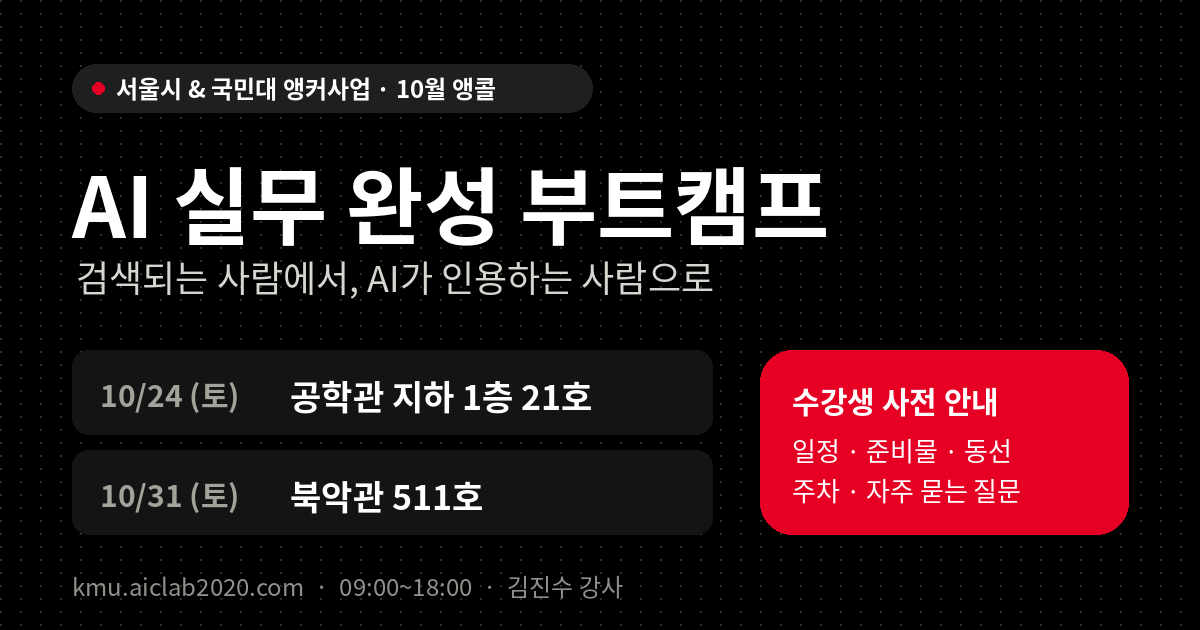
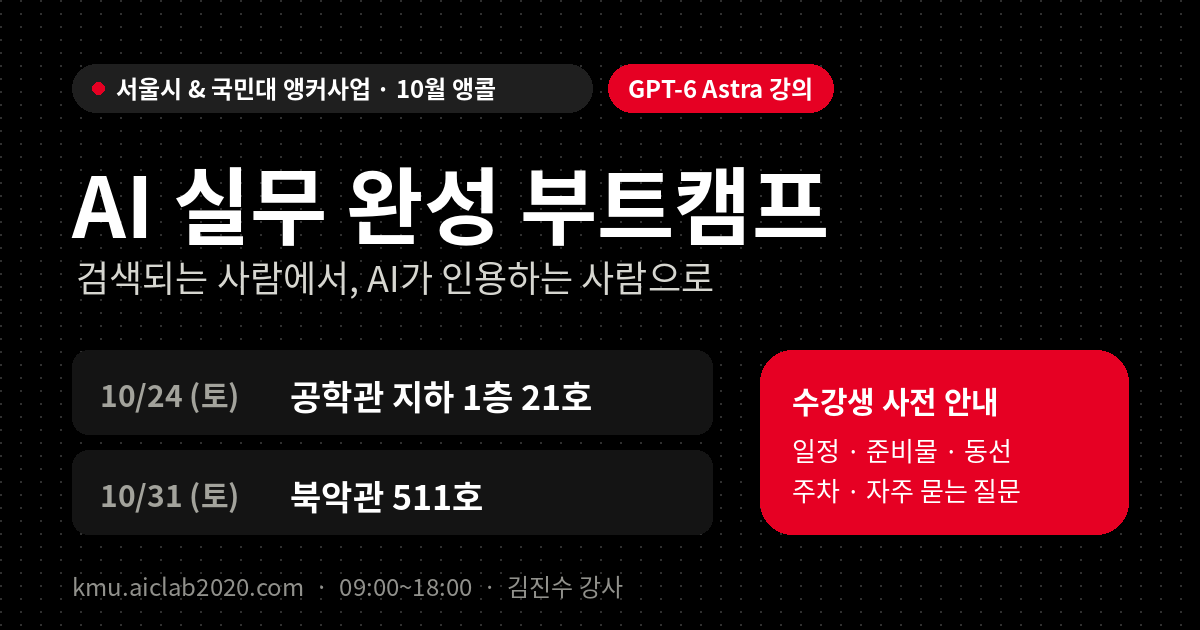
feat: GPT-6 Astra(아스트라) 검색 태그·구조화 데이터 추가
- title·description·keywords·OG/Twitter에 GPT-6 Astra, 아스트라, 챗GPT 비즈니스 반영
- 히어로에 강의 태그 칩, 커리큘럼에 실습 도구 문구, FAQ에 Astra 항목 추가
- Course JSON-LD, robots.txt, sitemap.xml, llms.txt 추가
- OG 이미지에 'GPT-6 Astra 강의' 배지

Claude-Session: https://claude.ai/code/session_01F85Z98ZBUN3VDCea7ghn78

Changed region(s): [[0.4933, 0.0905, 0.7092, 0.181]]

diff --git a/index.html b/index.html
@@ -5,25 +5,50 @@
 <meta name="viewport" content="width=device-width, initial-scale=1, viewport-fit=cover">
 <meta http-equiv="Content-Security-Policy" content="default-src 'self'; script-src 'self'; style-src 'self' https://fonts.googleapis.com; font-src https://fonts.gstatic.com; img-src 'self' data:; connect-src 'self'; object-src 'none'; base-uri 'self'; form-action 'none'">
 <meta name="referrer" content="strict-origin-when-cross-origin">
-<title>AI 실무 완성 부트캠프 10월 앵콜 · 수강생 안내</title>
-<meta name="description" content="국민대&서울앵커사업 AI 실무 완성 부트캠프 10월 앵콜(10/24·10/31 토) 수강생 사전 안내 — 날짜별 강의장, 일정·커리큘럼, 준비물, 캠퍼스 동선, 주차비, 자주 묻는 질문.">
+<title>GPT-6 Astra(아스트라) 강의 · AI 실무 완성 부트캠프 10월 앵콜 | 국민대</title>
+<meta name="description" content="국민대&amp;서울앵커사업 AI 실무 완성 부트캠프 10월 앵콜(10/24·10/31 토, 16시간) — GPT-6 Astra(아스트라)가 제공되는 챗GPT 비즈니스 유료 계정으로 실습하는 GEO 퍼스널 브랜딩 강의. 날짜별 강의장, 일정·커리큘럼, 준비물, 캠퍼스 동선, 주차, 자주 묻는 질문.">
+<meta name="keywords" content="GPT-6 Astra, GPT-6, Astra, 아스트라, GPT-6 아스트라, GPT-6 Astra 강의, 아스트라 강의, 챗GPT 비즈니스, ChatGPT Business, 국민대 AI 강의, 서울앵커사업, AI 실무 완성 부트캠프, GEO, 생성형 검색 최적화, 퍼스널 브랜딩, 김진수, AICLab">
+<meta name="author" content="김진수 (AICLab)">
+<meta name="robots" content="index, follow, max-image-preview:large">
 <link rel="canonical" href="https://kmu.aiclab2020.com/">
 <meta name="theme-color" content="#FBFBF9" media="(prefers-color-scheme: light)">
 <meta name="theme-color" content="#000000" media="(prefers-color-scheme: dark)">
 <meta property="og:type" content="website">
 <meta property="og:locale" content="ko_KR">
 <meta property="og:site_name" content="AICLab">
-<meta property="og:title" content="AI 실무 완성 부트캠프 10월 앵콜 · 수강생 안내">
-<meta property="og:description" content="10/24(토) 공학관 지하 1층 21호 · 10/31(토) 북악관 511호 | 일정·준비물·캠퍼스 동선·주차 안내">
+<meta property="og:title" content="GPT-6 Astra(아스트라) 강의 · AI 실무 완성 부트캠프 10월 앵콜">
+<meta property="og:description" content="국민대 10/24(토) 공학관 지하 1층 21호 · 10/31(토) 북악관 511호 | GPT-6 Astra 챗GPT 비즈니스 실습 · 일정·준비물·동선·주차 안내">
 <meta property="og:url" content="https://kmu.aiclab2020.com/">
 <meta property="og:image" content="https://kmu.aiclab2020.com/assets/img/og.png">
 <meta property="og:image:width" content="1200">
 <meta property="og:image:height" content="630">
-<meta property="og:image:alt" content="AI 실무 완성 부트캠프 10월 앵콜 수강생 안내 — 강의장과 일정">
+<meta property="og:image:alt" content="GPT-6 Astra 강의 — AI 실무 완성 부트캠프 10월 앵콜 수강생 안내, 강의장과 일정">
 <meta name="twitter:card" content="summary_large_image">
-<meta name="twitter:title" content="AI 실무 완성 부트캠프 10월 앵콜 · 수강생 안내">
-<meta name="twitter:description" content="10/24(토) 공학관 지하 1층 21호 · 10/31(토) 북악관 511호 | 일정·준비물·캠퍼스 동선·주차 안내">
+<meta name="twitter:title" content="GPT-6 Astra(아스트라) 강의 · AI 실무 완성 부트캠프 10월 앵콜">
+<meta name="twitter:description" content="국민대 10/24(토) 공학관 지하 1층 21호 · 10/31(토) 북악관 511호 | GPT-6 Astra 챗GPT 비즈니스 실습 · 일정·준비물·동선·주차 안내">
 <meta name="twitter:image" content="https://kmu.aiclab2020.com/assets/img/og.png">
+<script type="application/ld+json">
+{
+  "@context": "https://schema.org",
+  "@type": "Course",
+  "name": "AI실무완성부트캠프 앵콜: 검색되는 사람에서, AI가 인용하는 사람으로",
+  "alternateName": ["GPT-6 Astra 강의", "아스트라 강의", "국민대 AI 실무 완성 부트캠프 10월 앵콜"],
+  "description": "국민대&서울앵커사업 오픈 학습과정. GPT-6 Astra(아스트라)가 제공되는 챗GPT 비즈니스 유료 계정으로 자신의 경력을 AI가 인용하는 지식 자산으로 정리하고 GEO 글쓰기·홈페이지·검색 등록까지 실습하는 16시간 과정.",
+  "keywords": "GPT-6 Astra, GPT-6, Astra, 아스트라, 챗GPT 비즈니스, ChatGPT Business, GEO, 생성형 검색 최적화, 퍼스널 브랜딩, 국민대, 서울앵커사업",
+  "inLanguage": "ko",
+  "url": "https://kmu.aiclab2020.com/",
+  "provider": {"@type": "Organization", "name": "국민대학교 서울앵커사업", "sameAs": "https://www.kookmin.ac.kr/"},
+  "hasCourseInstance": [
+    {"@type": "CourseInstance", "name": "1일차", "courseMode": "Onsite", "startDate": "2026-10-24T09:00:00+09:00", "endDate": "2026-10-24T18:00:00+09:00",
+     "location": {"@type": "Place", "name": "국민대학교 공학관 지하 1층 21호", "address": {"@type": "PostalAddress", "streetAddress": "정릉로 77", "addressLocality": "성북구", "addressRegion": "서울특별시", "addressCountry": "KR"}},
+     "instructor": {"@type": "Person", "name": "김진수", "jobTitle": "AICLab 소장", "url": "https://www.aiclab.kr/"}},
+    {"@type": "CourseInstance", "name": "2일차", "courseMode": "Onsite", "startDate": "2026-10-31T09:00:00+09:00", "endDate": "2026-10-31T18:00:00+09:00",
+     "location": {"@type": "Place", "name": "국민대학교 북악관 511호", "address": {"@type": "PostalAddress", "streetAddress": "정릉로 77", "addressLocality": "성북구", "addressRegion": "서울특별시", "addressCountry": "KR"}},
+     "instructor": {"@type": "Person", "name": "김진수", "jobTitle": "AICLab 소장", "url": "https://www.aiclab.kr/"}}
+  ],
+  "offers": {"@type": "Offer", "price": "0", "priceCurrency": "KRW", "category": "Free"}
+}
+</script>
 <link rel="icon" href="assets/img/favicon.svg" type="image/svg+xml">
 <link rel="preconnect" href="https://fonts.googleapis.com">
 <link rel="preconnect" href="https://fonts.gstatic.com" crossorigin>
@@ -65,6 +90,7 @@
       <div class="eyebrow-row fade"><span class="eyebrow"><i aria-hidden="true"></i>서울시 &amp; 국민대 앵커사업 · 10월 앵콜 수강생 안내</span></div>
       <div class="bottom">
         <p class="desc fade d1">검색되는 사람에서, AI가 인용하는 사람으로</p>
+        <ul class="tags fade d1" aria-label="강의 태그"><li>#GPT-6 Astra 강의</li><li>#아스트라</li><li>#챗GPT 비즈니스</li><li>#GEO</li></ul>
         <p class="meta fade d1"><span class="nb">2026년 10월 24일(토) · 31일(토)</span> <span class="nb">09:00~18:00</span> <span class="nb">· 김진수 강사</span></p>
         <div class="actions fade d2">
           <a class="btn primary" href="https://www.kookmin.ac.kr/user/unIntr/campusGuide/bukakCampusGuide/index.do" target="_blank" rel="noopener noreferrer">국민대 캠퍼스 안내 바로가기</a>
@@ -95,6 +121,7 @@
 
 <section aria-labelledby="s-cur" id="curriculum">
   <h2 id="s-cur">일정 · 커리큘럼 <small>총 16시간</small></h2>
+  <p class="note">실습 도구: <b>챗GPT 비즈니스(단체용) 유료 계정 — GPT-6 Astra(아스트라) 제공 요금제</b> · 국민대 앵커사업단 지원</p>
   <div class="cur">
     <details class="cday" open><summary><h3>1일차 <span>10/24 (토) · 공학관 지하 1층 21호</span></h3></summary><ol><li><span class="tm">09:00~10:00</span><span class="ti">오리엔테이션: 검색되는 사람에서 AI가 인용하는 사람으로<em>산출물 · AI 가시성 기준선 기록</em></span></li><li><span class="tm">10:00~11:00</span><span class="ti">AI 도구 설정: 나의 AI 작업 환경 만들기<em>산출물 · 나의 AI 작업 환경</em></span></li><li><span class="tm">11:00~12:00</span><span class="ti">전문성 발굴·형식지화: 나의 지식 자산 만들기<em>산출물 · 전문분야 지도 + 대표 정의 문장 + 지식 자산 문서</em></span></li><li><span class="tm">12:00~13:00</span><span class="ti">GEO 글쓰기 엔진: 나만의 스킬 만들기<em>산출물 · 나의 GEO 글쓰기 스킬</em></span></li><li class="lunch"><span class="tm">13:00~14:00</span><span class="ti">점심</span></li><li><span class="tm">14:00~15:30</span><span class="ti">GEO 글쓰기 ①: 블로그<em>산출물 · GEO 블로그 글 1편</em></span></li><li><span class="tm">15:30~17:00</span><span class="ti">GEO 글쓰기 ②: 칼럼·보도자료<em>산출물 · GEO 칼럼 1편 + 보도자료 1건</em></span></li><li><span class="tm">17:00~18:00</span><span class="ti">1일차 결과물 정리 및 공유<em>산출물 · 1일차 결과물 아카이브</em></span></li></ol></details>
     <details class="cday" open><summary><h3>2일차 <span>10/31 (토) · 북악관 511호</span></h3></summary><ol><li><span class="tm">09:00~10:00</span><span class="ti">GEO 채널 전략과 성과 지표 설계<em>산출물 · 채널 구성표 + 측정표 틀</em></span></li><li><span class="tm">10:00~11:30</span><span class="ti">나의 웹페이지(홈페이지) GEO 최적화<em>산출물 · GEO 최적화 홈페이지(공개 URL)</em></span></li><li><span class="tm">11:30~13:00</span><span class="ti">링크드인 프로필 설정과 채널 연결<em>산출물 · 링크드인 프로필 + 게시 글</em></span></li><li class="lunch"><span class="tm">13:00~14:00</span><span class="ti">점심</span></li><li><span class="tm">14:00~15:30</span><span class="ti">검색되게 만들기: 검색엔진 등록과 색인<em>산출물 · 검색엔진 등록 완료 + 색인 요청</em></span></li><li><span class="tm">15:30~17:00</span><span class="ti">홈페이지로 모션그래픽 만들기<em>산출물 · 모션그래픽 영상 2종 + 유튜브 링크</em></span></li><li><span class="tm">17:00~18:00</span><span class="ti">성과측정·운영 루틴 및 발표<em>산출물 · 성과 측정표 + 30일 운영 캘린더</em></span></li></ol></details>
@@ -194,7 +221,7 @@
 <section aria-labelledby="s-faq">
   <h2 id="s-faq">자주 묻는 질문 <small>눌러서 펼치기</small></h2>
   <button type="button" class="toggle-all" data-toggle-all="#faq-list" aria-expanded="false">모두 펼치기</button>
-  <div class="faq" id="faq-list"><details class="hot" open><summary><span class="q"><span class="tag">중요</span>주차비는 얼마인가요?</span></summary><p>주차 지원이 없어 주차비는 본인 부담입니다. 국민대 교내 지하주차장(종합복지관 지하)은 <b>종일 5만원</b>(1시간 5천원, 3시간 1만 7천원, 5시간 2만 9천원)으로 부담이 큰 편입니다. 차량을 이용하신다면 국민대앞공영주차장(서울 성북구 정릉로6길 41, <b>종일 10,800원</b>, 1시간 1,800원)을 고려하세요. 일반 20대·전기차 10대로 이용자가 많은 편이니 필요하면 1~2일 전 010-9542-4456으로 문의하세요. 가능하면 대중교통 이용을 권장합니다.</p></details><details><summary>날짜마다 강의장이 다른가요?</summary><p>네. 10/24(토)는 공학관 지하 1층 21호, 10/31(토)는 북악관 511호입니다. 두 곳 모두 전산실습실입니다. 건물 위치는 위 강의장 안내 지도와 국민대 캠퍼스 안내에서 확인하세요.</p></details><details><summary>하루만 참석해도 되나요?</summary><p>1일차·2일차 연속 참석이 원칙입니다. 총 16시간 중 80% 이상(13시간 이상) 출석해야 수료되며, 출석이 80%에 미달하면 사업 운영 기준에 따라 향후 서울앵커사업 과정 선발에서 제외됩니다.</p></details><details><summary>출석은 어떻게 확인하나요?</summary><p>회차(4시간)별로 입실·퇴실 출석을 확인합니다(1일 4회). 늦게 오거나 일찍 나가면 출석 시간에 반영됩니다.</p></details><details><summary>신분증을 꼭 가져가야 하나요?</summary><p>네. 과정 참가 첫 날 국민대 앵커사업단 실무자가 신분증으로 생년과 거주지를 확인합니다. 첫날 결석하면 두 번째 날에 지참하세요. 신분증상 주소와 실제 거주지가 다르면 주민등록등본을 발급받아 오세요.</p></details><details><summary>노트북을 가져가야 하나요?</summary><p>강의실이 전산실습실로 준비되어 있습니다. 개인 노트북도 사용할 수 있으며, 가져오시면 충전기와 마우스를 함께 준비하세요.</p></details><details><summary>챗GPT 유료 계정은 어떻게 받나요?</summary><p>국민대 앵커사업단에서 챗GPT비즈니스(단체용) 유료 버전을 교육 기간 동안 무료로 지원합니다. 10/23(금) 국민대 담당자가 일괄 결제할 예정이며, 금요일에 못 하신 분은 당일 강의장에서 등록을 도와드립니다.</p></details><details><summary>미리 가입해 둘 사이트가 있나요?</summary><p>구글 계정을 준비하고, Claude(claude.ai)와 ChatGPT(chatgpt.com)에 미리 가입해 오세요. 구글 계정이 있으면 쉽게 가입할 수 있고 모두 무료입니다.</p></details><details><summary>무엇을 준비해 가면 좋을까요?</summary><p>만들고 싶은 주제(회사 프로그램 홍보, 업무 홍보자료, 퍼스널 브랜딩, 강의 홍보 등)를 정해 오시고, 상반신이 잘 나온 사진 파일을 준비해 오세요. 강의 시간에 실습에 사용합니다.</p></details><details><summary>교재가 있나요?</summary><p>별도 인쇄물 교재는 없습니다. 회차별 워크북과 참고 자료는 강의 패들렛으로 공유합니다.</p></details><details><summary>점심이나 주차 지원이 되나요?</summary><p>식사와 주차는 지원되지 않습니다. 교육 참가비는 무료입니다. 주차비는 위 '주차비는 얼마인가요?'를 참고하세요.</p></details><details><summary>과정 소개를 더 자세히 보고 싶어요.</summary><p>과정 세부 안내 페이지(kookmin-ai.aimay.chatgpt.site)에서 확인할 수 있습니다.</p></details><details><summary>그 밖의 문의는 어디로 하나요?</summary><p>김진수 강사(010-8921-9536)에게 문의하세요.</p></details></div>
+  <div class="faq" id="faq-list"><details class="hot" open><summary><span class="q"><span class="tag">중요</span>주차비는 얼마인가요?</span></summary><p>주차 지원이 없어 주차비는 본인 부담입니다. 국민대 교내 지하주차장(종합복지관 지하)은 <b>종일 5만원</b>(1시간 5천원, 3시간 1만 7천원, 5시간 2만 9천원)으로 부담이 큰 편입니다. 차량을 이용하신다면 국민대앞공영주차장(서울 성북구 정릉로6길 41, <b>종일 10,800원</b>, 1시간 1,800원)을 고려하세요. 일반 20대·전기차 10대로 이용자가 많은 편이니 필요하면 1~2일 전 010-9542-4456으로 문의하세요. 가능하면 대중교통 이용을 권장합니다.</p></details><details><summary>GPT-6 Astra(아스트라)로 실습하나요?</summary><p>네. 국민대 앵커사업단이 지원하는 챗GPT 비즈니스(단체용) 유료 계정으로 실습합니다. OpenAI는 GPT-6 Astra를 ChatGPT Plus·Pro·Business·Enterprise 사용자에게 제공한다고 발표했습니다. 강의 첫날 모델 선택 메뉴에서 GPT-6 Astra가 보이는지 함께 확인한 뒤 실습을 시작합니다.</p></details><details><summary>날짜마다 강의장이 다른가요?</summary><p>네. 10/24(토)는 공학관 지하 1층 21호, 10/31(토)는 북악관 511호입니다. 두 곳 모두 전산실습실입니다. 건물 위치는 위 강의장 안내 지도와 국민대 캠퍼스 안내에서 확인하세요.</p></details><details><summary>하루만 참석해도 되나요?</summary><p>1일차·2일차 연속 참석이 원칙입니다. 총 16시간 중 80% 이상(13시간 이상) 출석해야 수료되며, 출석이 80%에 미달하면 사업 운영 기준에 따라 향후 서울앵커사업 과정 선발에서 제외됩니다.</p></details><details><summary>출석은 어떻게 확인하나요?</summary><p>회차(4시간)별로 입실·퇴실 출석을 확인합니다(1일 4회). 늦게 오거나 일찍 나가면 출석 시간에 반영됩니다.</p></details><details><summary>신분증을 꼭 가져가야 하나요?</summary><p>네. 과정 참가 첫 날 국민대 앵커사업단 실무자가 신분증으로 생년과 거주지를 확인합니다. 첫날 결석하면 두 번째 날에 지참하세요. 신분증상 주소와 실제 거주지가 다르면 주민등록등본을 발급받아 오세요.</p></details><details><summary>노트북을 가져가야 하나요?</summary><p>강의실이 전산실습실로 준비되어 있습니다. 개인 노트북도 사용할 수 있으며, 가져오시면 충전기와 마우스를 함께 준비하세요.</p></details><details><summary>챗GPT 유료 계정은 어떻게 받나요?</summary><p>국민대 앵커사업단에서 챗GPT비즈니스(단체용) 유료 버전을 교육 기간 동안 무료로 지원합니다. 10/23(금) 국민대 담당자가 일괄 결제할 예정이며, 금요일에 못 하신 분은 당일 강의장에서 등록을 도와드립니다.</p></details><details><summary>미리 가입해 둘 사이트가 있나요?</summary><p>구글 계정을 준비하고, Claude(claude.ai)와 ChatGPT(chatgpt.com)에 미리 가입해 오세요. 구글 계정이 있으면 쉽게 가입할 수 있고 모두 무료입니다.</p></details><details><summary>무엇을 준비해 가면 좋을까요?</summary><p>만들고 싶은 주제(회사 프로그램 홍보, 업무 홍보자료, 퍼스널 브랜딩, 강의 홍보 등)를 정해 오시고, 상반신이 잘 나온 사진 파일을 준비해 오세요. 강의 시간에 실습에 사용합니다.</p></details><details><summary>교재가 있나요?</summary><p>별도 인쇄물 교재는 없습니다. 회차별 워크북과 참고 자료는 강의 패들렛으로 공유합니다.</p></details><details><summary>점심이나 주차 지원이 되나요?</summary><p>식사와 주차는 지원되지 않습니다. 교육 참가비는 무료입니다. 주차비는 위 '주차비는 얼마인가요?'를 참고하세요.</p></details><details><summary>과정 소개를 더 자세히 보고 싶어요.</summary><p>과정 세부 안내 페이지(kookmin-ai.aimay.chatgpt.site)에서 확인할 수 있습니다.</p></details><details><summary>그 밖의 문의는 어디로 하나요?</summary><p>김진수 강사(010-8921-9536)에게 문의하세요.</p></details></div>
 </section>
 
 <footer>

diff --git a/assets/css/style.css b/assets/css/style.css
@@ -95,6 +95,9 @@ body::before { content: ""; position: fixed; inset: 0 0 auto; height: env(safe-a
 .dot-hero .eyebrow i { width: 6px; height: 6px; border-radius: 9999px; background: var(--red); box-shadow: 0 0 10px var(--red); flex: none; }
 .dot-hero .bottom { position: absolute; inset: 0; display: flex; flex-direction: column; align-items: center; justify-content: flex-end; padding: 0 16px max(14vh, 96px); text-align: center; }
 .dot-hero .desc { margin: 0; max-width: 620px; font-size: clamp(16px, 2.6vw, 19px); line-height: 1.5; color: var(--ink); font-weight: 600; }
+.dot-hero .tags { list-style: none; margin: 10px 0 0; padding: 0; display: flex; flex-wrap: wrap; justify-content: center; gap: 6px; }
+.dot-hero .tags li { font-size: 12px; font-weight: 700; color: var(--ink); background: var(--chip); border-radius: 9999px; padding: 4px 10px; }
+.dot-hero .tags li:first-child { background: var(--red); color: #FFFFFF; }
 .dot-hero .meta { margin: 6px 0 0; font-size: 14px; color: var(--mute); }
 .dot-hero .actions { pointer-events: auto; margin-top: 20px; display: flex; flex-wrap: wrap; justify-content: center; gap: 8px; }
 .fade { transition: opacity 1s cubic-bezier(.2,.9,.25,1), transform 1s cubic-bezier(.2,.9,.25,1); opacity: 0; transform: translateY(10px); }

diff --git a/SECURITY-CHECK.md b/SECURITY-CHECK.md
@@ -16,7 +16,7 @@
 | 4 | 평문 전송 (CWE-319) | 높음 | 통과 | 모든 외부 링크 https, 페이지 전송은 Enforce HTTPS로 강제(16번) |
 | 5 | Open Redirect (CWE-601) | 높음 | 통과 | 리다이렉트 로직 없음 |
 | 6 | CSRF (CWE-352) | 높음 | 통과 | 폼·상태 변경 요청 없음, CSP `form-action 'none'` |
-| 7 | 보안 헤더 — CSP | 높음 | 통과 | meta CSP: `script-src 'self'`, 인라인 스크립트·핸들러·style 속성 0개 |
+| 7 | 보안 헤더 — CSP | 높음 | 통과 | meta CSP: `script-src 'self'`, 실행 스크립트는 외부 파일만. 인라인은 실행되지 않는 데이터 블록(JSON-LD) 1개뿐, 핸들러·style 속성 0개 |
 | 8 | 외부 링크 탭내빙(reverse tabnabbing) | 중간 | 통과 | `target="_blank"` 8개 모두 `rel="noopener noreferrer"` |
 | 9 | 디버그 코드 (CWE-489) | 중간 | 통과 | console.log·debugger 없음 |
 | 10 | 주석 내 민감정보 (CWE-615) | 중간 | 통과 | 주석은 구조 설명만 |
@@ -31,3 +31,9 @@
 
 - 미들웨어/라우트 RBAC(역할 기반 접근 제어): 로그인·관리자 기능이 없는 공개 안내 페이지라 적용 대상 없음
 - SQLi·SSRF·파일 업로드·인증·세션 항목: 서버 코드 없음
+
+## 2026-10-23 추가 점검 (검색 노출용 태그 추가)
+
+- 추가 파일: `robots.txt`(전체 허용), `sitemap.xml`, `llms.txt` — 공개 정보만 포함, 개인정보·비공개 경로 없음
+- JSON-LD(Course 스키마): 실행 코드가 아닌 데이터 블록, 공개 일정·장소·강사 정보만 포함
+- 결과: 기존 판정(조건부 승인) 유지

diff --git a/README.md b/README.md
@@ -13,6 +13,8 @@
 | `assets/img/` | 지도 2장, OG 이미지(1200×630), 파비콘 | 이미지 교체 |
 | `CNAME` | 커스텀 도메인 `kmu.aiclab2020.com` | 도메인 변경 시 |
 | `.nojekyll` | GitHub Pages의 Jekyll 처리 끄기 | — |
+| `robots.txt` · `sitemap.xml` | 검색엔진 수집 허용·사이트맵 | 페이지 추가 시 sitemap에 주소 추가 |
+| `llms.txt` | AI 검색(GEO)용 요약 | 핵심 정보 변경 시 함께 수정 |
 
 외부 의존성: Google Fonts(Inter, Noto Sans KR) 스타일시트 1개. npm 패키지 없음 → 의존성 충돌 없음.
 
@@ -22,6 +24,10 @@
 - 강조색(레드): `style.css` → `--red`, 히어로 빛 색은 `data-accent`
 - 동선 화살표 좌표: `index.html`의 `<svg viewBox="0 0 1400 812">` 안 `d="M..."` 값 (지도 이미지 1400×812 기준)
 - OG 이미지: `assets/img/og.png` 교체 후 카카오톡 공유 캐시는 https://developers.kakao.com/tool/debugger/sharing 에서 초기화
+
+## 검색 키워드
+
+- 검색 태그(GPT-6 Astra, 아스트라 등): `index.html`의 `<title>`, `meta description`, `meta keywords`, JSON-LD `keywords`, 히어로의 `<ul class="tags">`, FAQ 첫 항목
 
 ## 배포
 
